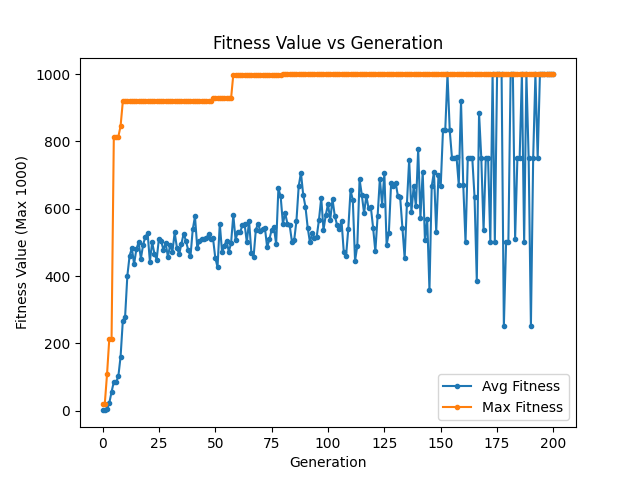
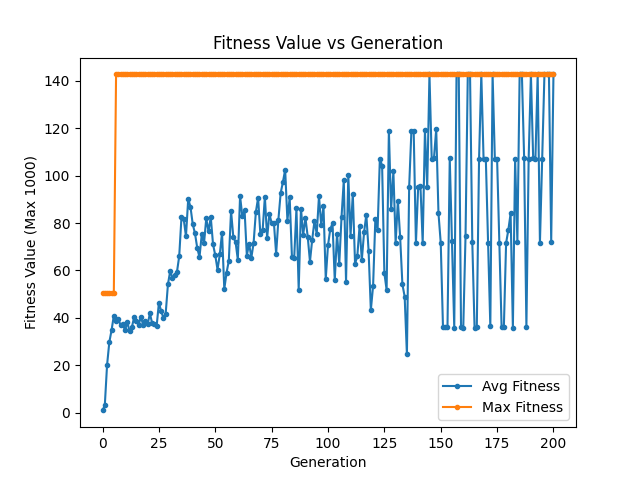
Fixed random constant domain bug
The placement of el_dc is misplaced as it should not el_dc = 0 for every row in the expression tree, instead it should reset 0 only for new ETs not each row. Line 110

diff --git a/GEP.py b/GEP.py
@@ -31,7 +31,8 @@ class GeneExpressionProgramming():
         self.chrom_length = self.nhead + self.ntail
 
         self.dc_length = self.ntail
-        self.const_list = np.random.uniform(const_range[0],const_range[1],self.dc_length)
+        #self.const_list = np.random.uniform(const_range[0],const_range[1],self.dc_length)
+        self.const_list = [3.0,1.1,4.0,1.1,4.0,1.1,4.0,1.1]
 
         self.operator_probabilities = operator_probabilities
 
@@ -106,9 +107,10 @@ class GeneExpressionProgramming():
 
             # Change string to list in each row of ET and change variables to sample value
             expr_tree = ChromToET(chromosome)
+            el_dc = 0
             for i in range(len(expr_tree)): #iterate rows
                 el = 0
-                el_dc = 0
+                #el_dc = 0
                 for element in expr_tree[i]: #iterate elements in a row
                     if element in variable_dict.keys():
                         expr_tree[i][el] = str(variable_dict[element])
@@ -230,8 +232,9 @@ class GeneExpressionProgramming():
                     variable_dict = {}
                     nth_input = 0
                     for term in self.term_set:
-                        variable_dict[term] = pd.DataFrame(x).iloc[i, nth_input]
-                        nth_input += 1
+                        if term != '?':
+                            variable_dict[term] = pd.DataFrame(x).iloc[i, nth_input]
+                            nth_input += 1
 
                     prediction = EvaluateET(chromosome, variable_dict)
                     prediction_list.append(prediction)
@@ -593,6 +596,7 @@ Constant list: {self.const_list}
 
             generation += 1  # generation +1 End of a new generation
         final_fittest_list = self.gen_pop_fit_history[ngenerations]['Fittest Chromosome']
+        final_fittest_ET = ChromToET(final_fittest_list)
         final_fittest = ''.join(final_fittest_list)
         final_fitness = self.gen_pop_fit_history[ngenerations]['Max Fitness Value']
         print(f'''
@@ -602,5 +606,5 @@ Fittest Chromosome Result:({final_fittest}) with fitness value {final_fitness}
 =========================================================
         ''')
         f = open("result.txt","w+")
-        f.write(f"After {generation} generations, fittest Chromosome Result:({final_fittest}) with fitness value {final_fitness}\n in list {final_fittest_list}")
+        f.write(f"After {generation} generations, fittest Chromosome Result:({final_fittest}) with fitness value {final_fitness}\n in list {final_fittest_list}\n constant list: {list(self.const_list)}\nExpression Tree: {final_fittest_ET}")
 

diff --git a/implementation_test.py b/implementation_test.py
@@ -4,11 +4,12 @@ from GEP import GeneExpressionProgramming
 
 df = pd.read_excel('../testing_datasets/sqrt_test_func_dataset_plusonepointone.xls')
 
-func_set = ['+','-','*','/', '(sqrt)']
+#func_set = ['+','-','*','/', '(sqrt)']
+func_set = ['+','*','(sqrt)','-']
 term_set = ['a','b','?']
-const_range = [1.09,1.15] #inclusive ends
+const_range = [0.1,3] #inclusive ends
 operator_probabilities = {
-    "Mutation":0.25, "Inversion":0.1, "IS Transposition":0.1,
+    "Mutation":0.3, "Inversion":0.1, "IS Transposition":0.1,
     "RIS Transposition":0.1, "One-point Recombination":0.3,
     "Two-point Recombination":0.3
 }
